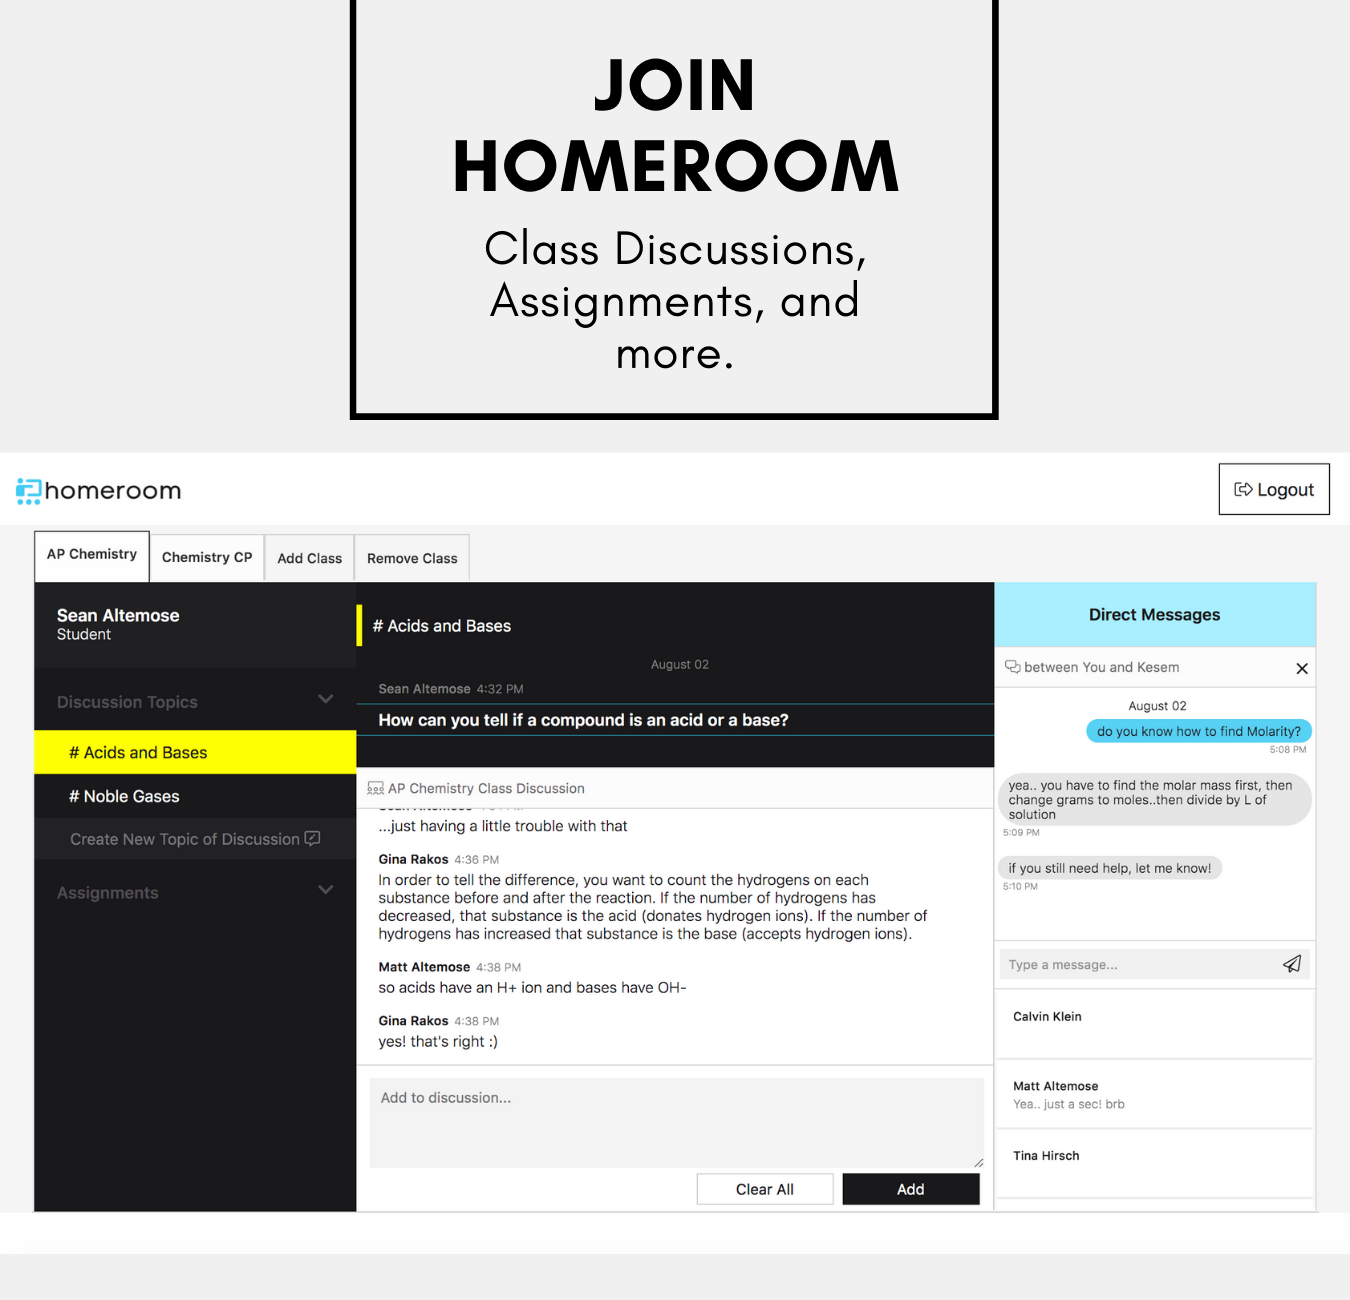
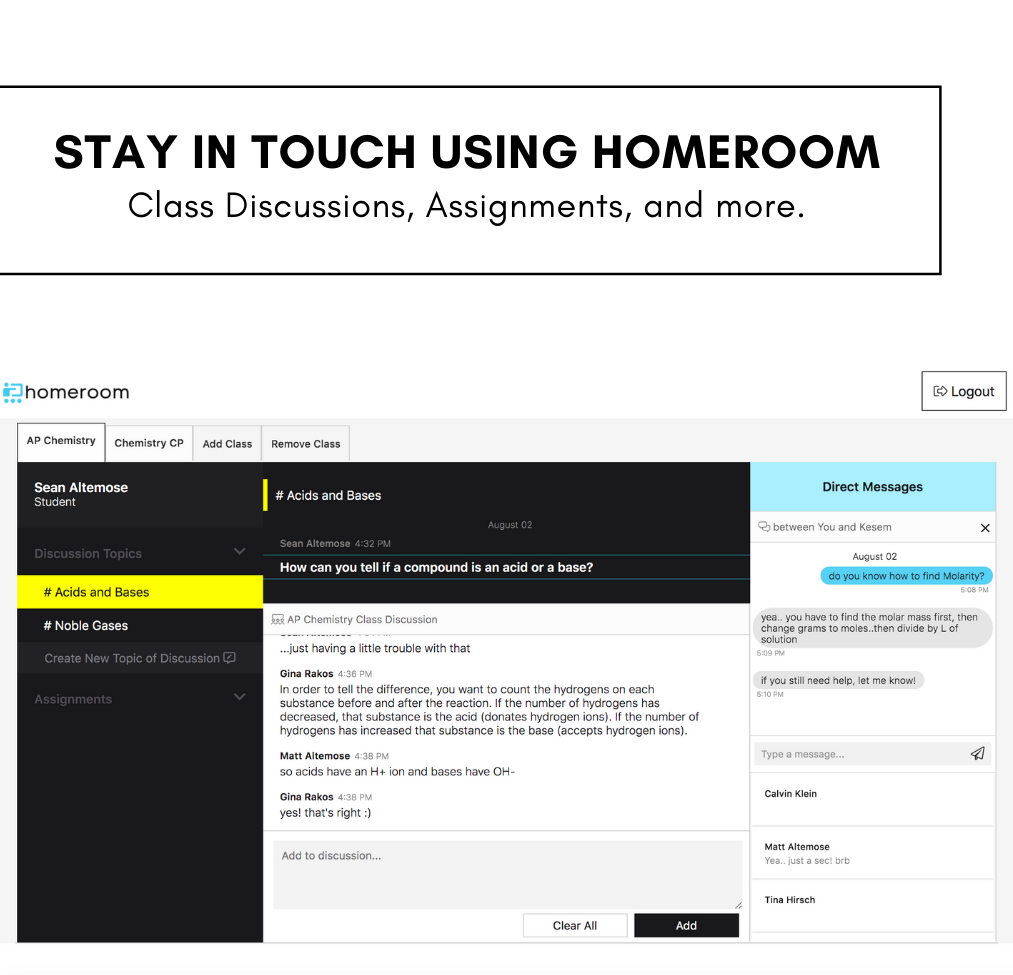
change front page colors

diff --git a/frontend/src/components/main/main_page.css b/frontend/src/components/main/main_page.css
@@ -1,7 +1,7 @@
 .main-section-1 {
     display: block;
     width: 100%;
-    background-color: #00d9ff73;
+    background-color: #f5f5f527;
     margin: 0;
     padding-top: 40px;
     padding-bottom: 0px;
@@ -11,7 +11,7 @@
 
 .main-section-2 {
     width: 100%;
-    background-color: #f0f0f0;
+    background-color: white;
     margin: 0;
     opacity: 1;
     padding-bottom: 20px;
